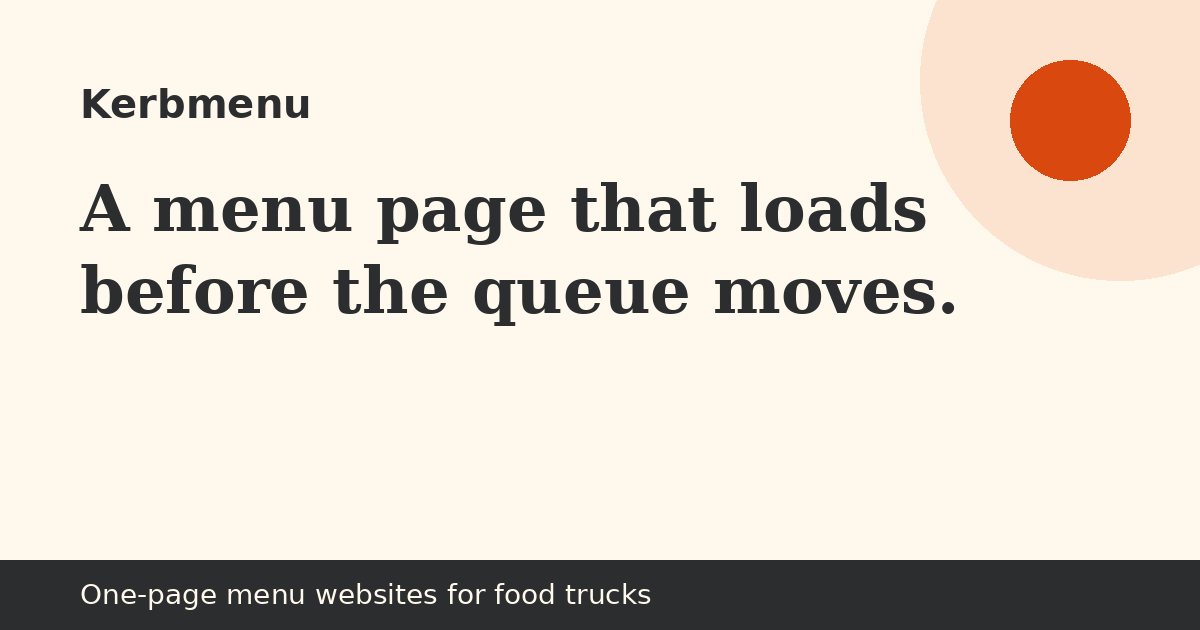
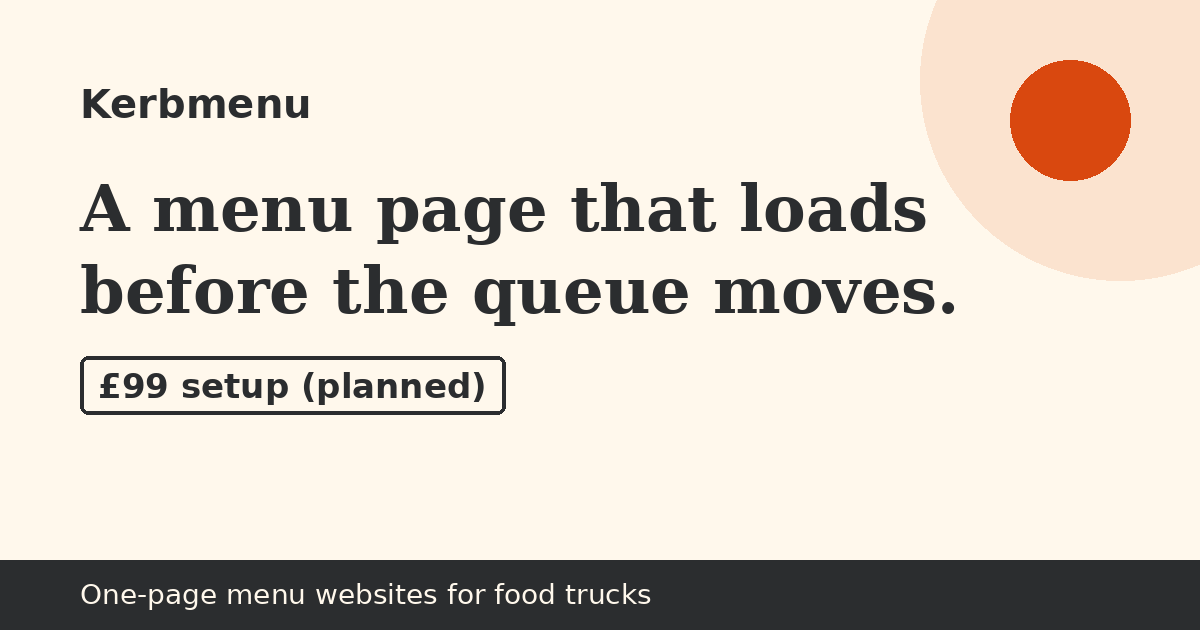
Publish site 2026-10-21 08:27 BST

Changed region(s): [[0.0617, 0.5429, 0.4317, 0.6635]]

diff --git a/index.html b/index.html
@@ -3,7 +3,7 @@
 <head>
 <meta charset="utf-8">
 <meta name="viewport" content="width=device-width, initial-scale=1">
-<meta http-equiv="Content-Security-Policy" content="default-src 'self'; img-src 'self' data: https://localreplyloop.goatcounter.com; style-src 'self'; script-src 'self'; font-src 'self'; connect-src 'self' https://formsubmit.co; form-action 'self'; base-uri 'self'; object-src 'none'">
+<meta http-equiv="Content-Security-Policy" content="default-src 'self'; img-src 'self' data: https://localreplyloop.goatcounter.com; style-src 'self'; script-src 'self'; font-src 'self'; connect-src 'self'; form-action 'self'; base-uri 'self'; object-src 'none'">
 <meta name="referrer" content="strict-origin-when-cross-origin">
 <title>Kerbmenu: A menu page that loads before the queue moves</title>
 <meta name="description" content="A fast one-page website for your truck: menu, allergens, where you are this week, and links to your socials, which you can update yourself.">
@@ -21,21 +21,14 @@
 </head>
 <body>
 <a class="skip" href="#main">Skip to content</a>
-<header><div class="wrap top"><a class="brand" href="./"><svg viewBox="0 0 64 64" aria-hidden="true" width="34" height="34"><circle cx="32" cy="32" r="32" fill="#2B2D2F"/><text x="32" y="43" text-anchor="middle" font-family="Georgia, serif" font-weight="700" font-size="30" fill="#FFF8EC">K</text><circle cx="50" cy="50" r="6" fill="#D9480F"/></svg>Kerbmenu</a><nav aria-label="Primary"><a href="#how">How it works</a><a href="#faq">Questions</a><a href="#contact">Contact</a></nav></div></header><section class="hero"><div class="wrap"><div><span class="draft">Draft: not yet available. Enquiries welcome.</span><br><span class="eyebrow">Service · draft offer · One-page menu websites for food trucks</span><h1>A menu page that loads before the queue moves.</h1><p class="lede">Kerbmenu builds street-food traders a single, fast page with the menu, allergen information, this week&#x27;s pitches and links to socials. You can update it from your phone.</p><div class="ctas"><a class="btn" href="#contact" data-cta="hero">Make an enquiry</a><a class="btn ghost" href="#faq" data-cta="hero-secondary">Questions</a></div></div><div class="art"><svg viewBox="0 0 400 400" role="img" aria-label="Decorative pattern" class="motif" preserveAspectRatio="xMidYMid slice"><circle cx="30" cy="30" r="9" fill="#D9480F" fill-opacity="0.85"/><circle cx="30" cy="79" r="9" fill="#2B2D2F" fill-opacity="0.25"/><circle cx="30" cy="128" r="9" fill="#2B2D2F" fill-opacity="0.25"/><circle cx="30" cy="177" r="9" fill="#2B2D2F" fill-opacity="0.25"/><circle cx="30" cy="226" r="9" fill="#2B2D2F" fill-opacity="0.25"/><circle cx="30" cy="275" r="9" fill="#D9480F" fill-opacity="0.85"/><circle cx="30" cy="324" r="9" fill="#2B2D2F" fill-opacity="0.25"/><circle cx="30" cy="373" r="9" fill="#2B2D2F" fill-opacity="0.25"/><circle cx="79" cy="30" r="9" fill="#2B2D2F" fill-opacity="0.25"/><circle cx="79" cy="79" r="13" fill="#2B2D2F" fill-opacity="0.25"/><circle cx="79" cy="128" r="17" fill="#2B2D2F" fill-opacity="0.25"/><circle cx="79" cy="177" r="5" fill="#2B2D2F" fill-opacity="0.25"/><circle cx="79" cy="226" r="9" fill="#D9480F" fill-opacity="0.85"/><circle cx="79" cy="275" r="13" fill="#2B2D2F" fill-opacity="0.25"/><circle cx="79" cy="324" r="17" fill="#2B2D2F" fill-opacity="0.25"/><circle cx="79" cy="373" r="5" fill="#2B2D2F" fill-opacity="0.25"/><circle cx="128" cy="30" r="9" fill="#2B2D2F" fill-opacity="0.25"/><circle cx="128" cy="79" r="17" fill="#2B2D2F" fill-opacity="0.25"/><circle cx="128" cy="128" r="9" fill="#2B2D2F" fill-opacity="0.25"/><circle cx="128" cy="177" r="17" fill="#D9480F" fill-opacity="0.85"/><circle cx="128" cy="226" r="9" fill="#2B2D2F" fill-opacity="0.25"/><circle cx="128" cy="275" r="17" fill="#2B2D2F" fill-opacity="0.25"/><circle cx="128" cy="324" r="9" fill="#2B2D2F" fill-opacity="0.25"/><circle cx="128" cy="373" r="17" fill="#2B2D2F" fill-opacity="0.25"/><circle cx="177" cy="30" r="9" fill="#2B2D2F" fill-opacity="0.25"/><circle cx="177" cy="79" r="5" fill="#2B2D2F" fill-opacity="0.25"/><circle cx="177" cy="128" r="17" fill="#D9480F" fill-opacity="0.85"/><circle cx="177" cy="177" r="13" fill="#2B2D2F" fill-opacity="0.25"/><circle cx="177" cy="226" r="9" fill="#2B2D2F" fill-opacity="0.25"/><circle cx="177" cy="275" r="5" fill="#2B2D2F" fill-opacity="0.25"/><circle cx="177" cy="324" r="17" fill="#2B2D2F" fill-opacity="0.25"/><circle cx="177" cy="373" r="13" fill="#D9480F" fill-opacity="0.85"/><circle cx="226" cy="30" r="9" fill="#2B2D2F" fill-opacity="0.25"/><circle cx="226" cy="79" r="9" fill="#D9480F" fill-opacity="0.85"/><circle cx="226" cy="128" r="9" fill="#2B2D2F" fill-opacity="0.25"/><circle cx="226" cy="177" r="9" fill="#2B2D2F" fill-opacity="0.25"/><circle cx="226" cy="226" r="9" fill="#2B2D2F" fill-opacity="0.25"/><circle cx="226" cy="275" r="9" fill="#2B2D2F" fill-opacity="0.25"/><circle cx="226" cy="324" r="9" fill="#D9480F" fill-opacity="0.85"/><circle cx="226" cy="373" r="9" fill="#2B2D2F" fill-opacity="0.25"/><circle cx="275" cy="30" r="9" fill="#D9480F" fill-opacity="0.85"/><circle cx="275" cy="79" r="13" fill="#2B2D2F" fill-opacity="0.25"/><circle cx="275" cy="128" r="17" fill="#2B2D2F" fill-opacity="0.25"/><circle cx="275" cy="177" r="5" fill="#2B2D2F" fill-opacity="0.25"/><circle cx="275" cy="226" r="9" fill="#2B2D2F" fill-opacity="0.25"/><circle cx="275" cy="275" r="13" fill="#D9480F" fill-opacity="0.85"/><circle cx="275" cy="324" r="17" fill="#2B2D2F" fill-opacity="0.25"/><circle cx="275" cy="373" r="5" fill="#2B2D2F" fill-opacity="0.25"/><circle cx="324" cy="30" r="9" fill="#2B2D2F" fill-opacity="0.25"/><circle cx="324" cy="79" r="17" fill="#2B2D2F" fill-opacity="0.25"/><circle cx="324" cy="128" r="9" fill="#2B2D2F" fill-opacity="0.25"/><circle cx="324" cy="177" r="17" fill="#2B2D2F" fill-opacity="0.25"/><circle cx="324" cy="226" r="9" fill="#D9480F" fill-opacity="0.85"/><circle cx="324" cy="275" r="17" fill="#2B2D2F" fill-opacity="0.25"/><circle cx="324" cy="324" r="9" fill="#2B2D2F" fill-opacity="0.25"/><circle cx="324" cy="373" r="17" fill="#2B2D2F" fill-opacity="0.25"/><circle cx="373" cy="30" r="9" fill="#2B2D2F" fill-opacity="0.25"/><circle cx="373" cy="79" r="5" fill="#2B2D2F" fill-opacity="0.25"/><circle cx="373" cy="128" r="17" fill="#2B2D2F" fill-opacity="0.25"/><circle cx="373" cy="177" r="13" fill="#D9480F" fill-opacity="0.85"/><circle cx="373" cy="226" r="9" fill="#2B2D2F" fill-opacity="0.25"/><circle cx="373" cy="275" r="5" fill="#2B2D2F" fill-opacity="0.25"/><circle cx="373" cy="324" r="17" fill="#2B2D2F" fill-opacity="0.25"/><circle cx="373" cy="373" r="13" fill="#2B2D2F" fill-opacity="0.25"/></svg></div></div></section>
+<header><div class="wrap top"><a class="brand" href="./"><svg viewBox="0 0 64 64" aria-hidden="true" width="34" height="34"><circle cx="32" cy="32" r="32" fill="#2B2D2F"/><text x="32" y="43" text-anchor="middle" font-family="Georgia, serif" font-weight="700" font-size="30" fill="#FFF8EC">K</text><circle cx="50" cy="50" r="6" fill="#D9480F"/></svg>Kerbmenu</a><nav aria-label="Primary"><a href="#how">How it works</a><a href="#faq">Questions</a><a href="#contact">Contact</a></nav></div></header>
 <main id="main">
+<section class="hero"><div class="wrap"><div><span class="draft">Draft: not yet available. Enquiries welcome.</span><br><span class="eyebrow">Service · draft offer · One-page menu websites for food trucks</span><h1>A menu page that loads before the queue moves.</h1><p class="lede">Kerbmenu builds street-food traders a single, fast page with the menu, allergen information, this week&#x27;s pitches and links to socials. You can update it from your phone.</p><div class="ctas"><a class="btn" href="#contact" data-cta="hero">Make an enquiry</a><a class="btn ghost" href="#faq" data-cta="hero-secondary">Questions</a></div></div><figure class="art"><svg viewBox="0 0 400 400" aria-hidden="true" focusable="false" class="motif"><rect x="30" y="140" width="260" height="160" rx="18" fill="#2B2D2F"/><rect x="290" y="190" width="80" height="110" rx="14" fill="#2B2D2F"/><rect x="60" y="170" width="150" height="60" rx="6" fill="#FBE3CF"/><rect x="300" y="205" width="50" height="40" rx="6" fill="#FBE3CF"/><circle cx="100" cy="310" r="30" fill="#D9480F"/><circle cx="300" cy="310" r="30" fill="#D9480F"/><circle cx="100" cy="310" r="12" fill="#FFF8EC"/><circle cx="300" cy="310" r="12" fill="#FFF8EC"/><rect x="220" y="40" width="110" height="140" rx="14" fill="#2B2D2F"/><rect x="228" y="48" width="94" height="124" rx="8" fill="#FFF8EC"/><rect x="236" y="64" width="78" height="8" rx="4" fill="#D9480F"/><rect x="236" y="90" width="48" height="8" rx="4" fill="#D9480F"/><rect x="236" y="116" width="18" height="8" rx="4" fill="#D9480F"/><rect x="236" y="142" width="78" height="8" rx="4" fill="#D9480F"/></svg><figcaption class="fine">Illustrative</figcaption></figure></div></section>
 <section class="tint" id="how"><div class="wrap"><span class="eyebrow">How it works</span><h2>A fast one-page website for your truck: menu, allergens, where you are this week, and links to your socials, which you can update yourself.</h2><div class="steps"><div class="step"><h3>Send your menu</h3><p>And photos, pitches and socials.</p></div><div class="step"><h3>We build the page</h3><p>Fast on mobile data, readable in sunlight.</p></div><div class="step"><h3>You update it</h3><p>Change the week&#x27;s pitches from your phone.</p></div></div></div></section>
-<section><div class="wrap"><span class="eyebrow">Who it is for</span><h2>For food truck and street-food traders.</h2><div class="points"><div class="point"><h3>Built for phones</h3><p>Loads quickly at a crowded event.</p></div><div class="point"><h3>Allergens included</h3><p>A clear allergen table per dish.</p></div><div class="point"><h3>You own the content</h3><p>Take it with you if you leave.</p></div></div></div></section>
+<section><div class="wrap"><span class="eyebrow">Who it is for</span><h2>For food truck and street-food traders.</h2><div class="points"><div class="point"><h3>Built for phones</h3><p>Loads quickly at a crowded event.</p></div><div class="point"><h3>Allergens included</h3><p>A clear allergen table per dish, filled in and kept up to date by you.</p></div><div class="point"><h3>You own the content</h3><p>Take it with you if you leave.</p></div></div></div></section>
 <section class="tint" id="price"><div class="wrap"><span class="eyebrow">Planned price</span><div class="pricebox"><p class="price">£99 setup (planned)</p><p>This is a draft offer and is not taking orders yet. Nothing can be bought on this website.</p></div></div></section>
-<section id="faq"><div class="wrap"><span class="eyebrow">Questions</span><h2>Common questions</h2><details><summary>Is this available now?</summary><p>It&#x27;s a draft offer. Enquire and we&#x27;ll reply about timing.</p></details><details><summary>Do I need a domain?</summary><p>Not to start. You can add one later.</p></details><details><summary>Can customers order online?</summary><p>Not with this. Menu and info only.</p></details><p class="fine" style="margin-top:18px">Kerbmenu builds information pages. It does not process orders or payments.</p></div></section>
-<section class="tint" id="contact"><div class="wrap contact-grid"><div><span class="eyebrow">Contact</span><h2>Make an enquiry</h2><p>Kerbmenu is new and run by one person. Every message is read and answered by email, usually within two working days.</p><p>Email: <a href="mailto:localreply+kerbmenu@agentmail.to">localreply+kerbmenu@agentmail.to</a></p></div><form class="form" data-contact data-formsubmit="localreply+kerbmenu@agentmail.to" data-email="localreply+kerbmenu@agentmail.to" data-subject="Kerbmenu enquiry" novalidate>
-<div><label for="f-name">Your name</label><input id="f-name" name="name" autocomplete="name" required></div>
-<div><label for="f-email">Email</label><input id="f-email" name="email" type="email" autocomplete="email" required></div>
-<div><label for="f-plan">About</label><select id="f-plan" name="plan"><option value="New page">New page</option><option value="Replace an old site">Replace an old site</option><option value="A question">A question</option></select></div>
-<div><label for="f-message">Message</label><textarea id="f-message" name="message"></textarea></div>
-<p class="hint">Your message goes to our inbox through FormSubmit (formsubmit.co), our form-delivery provider. If that fails, your own email app opens instead. See our <a href="privacy.html">privacy notice</a>.</p>
-<button class="btn" type="submit">Make an enquiry</button>
-<p class="form-status" role="status" aria-live="polite"></p>
-</form></div></section>
+<section id="faq"><div class="wrap"><span class="eyebrow">Questions</span><h2>Common questions</h2><details><summary>Is this available now?</summary><p>It&#x27;s a draft offer. Enquiries are received, but we can’t promise a reply or a timeframe yet.</p></details><details><summary>Do I need a domain?</summary><p>Not to start. You can add one later.</p></details><details><summary>Can customers order online?</summary><p>Not with this. Menu and info only.</p></details><details><summary>Who is responsible for the allergen information?</summary><p>You are, as the food business. We display what you give us.</p></details><p class="fine" style="margin-top:18px">Kerbmenu builds information pages. It does not process orders or payments.</p></div></section>
+<section class="tint" id="contact"><div class="wrap contact-grid"><div><span class="eyebrow">Contact</span><h2>Make an enquiry</h2><p>Kerbmenu is new and run by one person. Messages go to our inbox. We can’t promise a reply or a timeframe yet.</p><p>Email: <a href="mailto:localreply+kerbmenu@agentmail.to">localreply+kerbmenu@agentmail.to</a></p></div><div class="form contact-mail"><p><a class="btn" href="mailto:localreply+kerbmenu@agentmail.to?subject=%5BKerbmenu%5D%20Enquiry" data-cta="enquire">Email Kerbmenu</a></p><p class="hint">This opens your own email app. Nothing is sent through this website. See our <a href="privacy.html">privacy notice</a>.</p></div></div></section>
 </main><footer><div class="wrap"><p>Operated by a UK sole trader trading as Kerbmenu. Contact: localreply+kerbmenu@agentmail.to. Postal address available on written request.</p>
 <p><a href="privacy.html">Privacy</a><a href="terms.html">Terms</a><a href="./#contact">Contact</a></p>
 <p class="fine">Kerbmenu builds information pages. It does not process orders or payments.</p></div></footer>

diff --git a/assets/site.css b/assets/site.css
@@ -1,4 +1,4 @@
-:root{--ink:#2B2D2F;--paper:#FFF8EC;--acc:#D9480F;--acc-text:#B83D0D;--on-acc:#111111;--soft:#FBE3CF;--on-ink:#FFF8EC;--r:16px;--br:999px;--head:Georgia, 'Times New Roman', serif;--body:system-ui, -apple-system, 'Segoe UI', Roboto, sans-serif}
+:root{--ink:#2B2D2F;--paper:#FFF8EC;--acc:#D9480F;--acc-text:#A8370B;--on-acc:#111111;--acc-btn:#E44C10;--soft:#FBE3CF;--on-ink:#FFF8EC;--r:16px;--br:999px;--head:Georgia, 'Times New Roman', serif;--body:system-ui, -apple-system, 'Segoe UI', Roboto, sans-serif}
 *,*::before,*::after{box-sizing:border-box}html{scroll-behavior:smooth}@media (prefers-reduced-motion:reduce){html{scroll-behavior:auto}*{transition:none!important}}
 body{margin:0;font-family:var(--body);color:var(--ink);background:var(--paper);line-height:1.6;font-size:17px;-webkit-font-smoothing:antialiased}
 h1,h2,h3{font-family:var(--head);line-height:1.15;margin:0 0 .5em;letter-spacing:-.01em}h1{font-size:clamp(2.1rem,5vw,3.6rem)}h2{font-size:clamp(1.5rem,3vw,2.2rem)}h3{font-size:1.15rem}
@@ -7,11 +7,11 @@ p{margin:0 0 1em}a{color:var(--ink);text-decoration-color:var(--acc);text-underl
 :focus-visible{outline:3px solid var(--acc);outline-offset:2px}
 .top{display:flex;align-items:center;justify-content:space-between;padding:18px 0;gap:16px}.brand{display:flex;align-items:center;gap:10px;font-family:var(--head);font-weight:700;font-size:1.25rem;text-decoration:none}
 .top nav a{margin-left:18px;font-size:.95rem;text-decoration:none}.top nav a:hover{text-decoration:underline}
-.btn{display:inline-block;background:var(--acc);color:var(--on-acc);padding:13px 22px;border-radius:var(--br);font-weight:600;text-decoration:none;border:2px solid var(--acc);cursor:pointer;font:inherit;font-weight:600}
-.btn:hover{filter:brightness(.94)}.btn.ghost{background:transparent;color:var(--ink);border-color:var(--ink)}
+.btn{display:inline-block;background:var(--acc-btn);color:var(--on-acc);padding:13px 22px;border-radius:var(--br);font-weight:600;text-decoration:none;border:2px solid var(--acc-btn);cursor:pointer;font:inherit;font-weight:600}
+.btn:hover{filter:none;box-shadow:inset 0 0 0 2px currentColor}.btn.ghost{background:transparent;color:var(--ink);border-color:var(--ink)}
 .eyebrow{display:inline-block;font-size:.8rem;letter-spacing:.12em;text-transform:uppercase;font-weight:600;color:var(--acc-text);margin-bottom:12px}
 .hero{padding:48px 0 64px}.hero .lede{font-size:1.15rem;max-width:40em}.ctas{display:flex;gap:12px;flex-wrap:wrap;margin-top:22px}
-.motif{width:100%;height:auto;max-width:420px;display:block}
+.motif{width:100%;height:auto;max-width:420px;display:block}.art{margin:0}
 .draft{display:inline-block;background:var(--soft);border:1px dashed var(--ink);padding:3px 10px;border-radius:999px;font-size:.82rem;font-weight:600;margin-bottom:14px}
 section{padding:56px 0}.tint{background:var(--soft)}
 .steps{display:grid;grid-template-columns:repeat(auto-fit,minmax(220px,1fr));gap:22px;counter-reset:s}
@@ -22,11 +22,11 @@ section{padding:56px 0}.tint{background:var(--soft)}
 details{border-bottom:1px solid color-mix(in srgb,var(--ink) 18%,transparent);padding:14px 0}summary{cursor:pointer;font-weight:600}details p{margin-top:10px}
 .form{display:grid;gap:14px;max-width:620px}.form label{font-weight:600;font-size:.95rem;display:block;margin-bottom:4px}
 .form input,.form textarea,.form select{width:100%;padding:12px;border:1.5px solid color-mix(in srgb,var(--ink) 40%,transparent);border-radius:calc(var(--r)/2);font:inherit;background:#fff;color:#111}
-.form textarea{min-height:120px}.hint,.fine{font-size:.88rem;opacity:.85}.form-status{font-weight:600}
-.contact-grid{display:grid;grid-template-columns:1fr 1.2fr;gap:40px}@media(max-width:800px){.contact-grid{grid-template-columns:1fr}.top nav{display:none}}
+.form textarea{min-height:120px}.hint,.fine{font-size:.88rem}.form-status{font-weight:600}
+.contact-grid{display:grid;grid-template-columns:1fr 1.2fr;gap:40px}@media(max-width:800px){.contact-grid{grid-template-columns:1fr}.top nav a:not([href="#contact"]){display:none}.top nav a{margin-left:0;padding:10px 0;font-weight:600}}
 footer{padding:36px 0 48px;font-size:.9rem;border-top:1px solid color-mix(in srgb,var(--ink) 15%,transparent)}footer a{margin-right:14px}
 .tool{background:var(--paper);border:2px solid var(--ink);border-radius:var(--r);padding:26px;max-width:640px}.tool .row{display:grid;grid-template-columns:1fr 140px;gap:12px;align-items:center;margin-bottom:10px}
 .tool input[type=number]{padding:10px;border:1.5px solid var(--ink);border-radius:8px;font:inherit;width:100%}.result{margin-top:16px;padding:16px;background:var(--soft);border-radius:calc(var(--r)/2);min-height:3em}
 .check h3{margin-top:18px}.check label{display:flex;gap:10px;align-items:flex-start;padding:6px 0}.check input{width:20px;height:20px;accent-color:var(--acc)}
 .legal{max-width:760px}.legal h2{font-size:1.3rem;margin-top:1.6em}
-.hero .wrap{display:grid;grid-template-columns:1.25fr .85fr;gap:48px;align-items:center}@media(max-width:800px){.hero .wrap{grid-template-columns:1fr}.hero .art{max-width:280px}}
+.hero .wrap{display:grid;grid-template-columns:1.25fr .85fr;gap:48px;align-items:center}@media(max-width:800px){.hero .wrap{grid-template-columns:1fr}.hero .art{max-width:180px;margin-top:-8px}}

diff --git a/privacy.html b/privacy.html
@@ -3,7 +3,7 @@
 <head>
 <meta charset="utf-8">
 <meta name="viewport" content="width=device-width, initial-scale=1">
-<meta http-equiv="Content-Security-Policy" content="default-src 'self'; img-src 'self' data: https://localreplyloop.goatcounter.com; style-src 'self'; script-src 'self'; font-src 'self'; connect-src 'self' https://formsubmit.co; form-action 'self'; base-uri 'self'; object-src 'none'">
+<meta http-equiv="Content-Security-Policy" content="default-src 'self'; img-src 'self' data: https://localreplyloop.goatcounter.com; style-src 'self'; script-src 'self'; font-src 'self'; connect-src 'self'; form-action 'self'; base-uri 'self'; object-src 'none'">
 <meta name="referrer" content="strict-origin-when-cross-origin">
 <title>Privacy notice | Kerbmenu</title>
 <meta name="description" content="Privacy notice for Kerbmenu.">
@@ -21,13 +21,13 @@
 </head>
 <body>
 <a class="skip" href="#main">Skip to content</a>
-<header><div class="wrap top"><a class="brand" href="./"><svg viewBox="0 0 64 64" aria-hidden="true" width="34" height="34"><circle cx="32" cy="32" r="32" fill="#2B2D2F"/><text x="32" y="43" text-anchor="middle" font-family="Georgia, serif" font-weight="700" font-size="30" fill="#FFF8EC">K</text><circle cx="50" cy="50" r="6" fill="#D9480F"/></svg>Kerbmenu</a><nav aria-label="Primary"><a href="#how">How it works</a><a href="#faq">Questions</a><a href="#contact">Contact</a></nav></div></header><main id="main"><section><div class="wrap legal"><h1>Privacy notice</h1><p class="fine">Last updated 19 October 2026</p>
+<header><div class="wrap top"><a class="brand" href="./"><svg viewBox="0 0 64 64" aria-hidden="true" width="34" height="34"><circle cx="32" cy="32" r="32" fill="#2B2D2F"/><text x="32" y="43" text-anchor="middle" font-family="Georgia, serif" font-weight="700" font-size="30" fill="#FFF8EC">K</text><circle cx="50" cy="50" r="6" fill="#D9480F"/></svg>Kerbmenu</a><nav aria-label="Primary"><a href="#how">How it works</a><a href="#faq">Questions</a><a href="#contact">Contact</a></nav></div></header><main id="main"><section><div class="wrap legal"><h1>Privacy notice</h1><p class="fine">Last updated 20 October 2026</p>
 <p><span>Operated by a UK sole trader trading as Kerbmenu. Contact: localreply+kerbmenu@agentmail.to. Postal address available on written request.</span> We are the controller for the personal data described here. For anything in this notice, email <a href="mailto:localreply+kerbmenu@agentmail.to">localreply+kerbmenu@agentmail.to</a> with “Kerbmenu” in the subject line.</p>
-<h2>What we collect</h2><p>If you use the form or email us, we receive your name, email address, anything you write in your message and, if you give it, your postcode or town. We use it only to reply to you and, if you ask for it, to deal with your enquiry.</p>
+<h2>What we collect</h2><p>If you email us, we receive your name, email address, anything you write in your message and, if you give it, your postcode or town. We use it only to reply to you and, if you ask for it, to deal with your enquiry.</p>
 <h2>Lawful basis</h2><p>Replying to an enquiry you send us is in our legitimate interests, or steps taken at your request before any agreement (UK GDPR Article 6(1)(f) and 6(1)(b)).</p>
-<h2>Who processes it for us</h2><p>FormSubmit (formsubmit.co) delivers form messages to our inbox. AgentMail (agentmail.to) hosts the inbox. GitHub Pages hosts this website and may log technical data such as IP addresses for security. Some of these providers process data outside the UK under their own safeguards.</p>
+<h2>Who processes it for us</h2><p>AgentMail (agentmail.to) hosts our inbox. GitHub Pages hosts this website and may log technical data such as IP addresses for security. Some of these providers process data outside the UK under their own safeguards.</p>
 <h2>Cookies and analytics</h2><p>We set no cookies. We count page views with GoatCounter, which records the page, referrer and screen size but no cookies and no personal profile. It does not run if your browser sends Do Not Track or Global Privacy Control.</p>
-<h2>How long we keep it</h2><p>We keep enquiry emails for up to 12 months after our last contact, unless you become a customer, in which case we keep records as the law requires.</p>
+<h2>How long we keep it</h2><p>We delete enquiry and order data 30 days after our last contact or after delivery. We keep only the basic order record that tax law requires.</p>
 <h2>Your rights</h2><p>You can ask for a copy of your data, ask us to correct or delete it, or object to how we use it, by emailing <a href="mailto:localreply+kerbmenu@agentmail.to">localreply+kerbmenu@agentmail.to</a>. You can complain to the Information Commissioner's Office (ico.org.uk).</p></div></section></main><footer><div class="wrap"><p>Operated by a UK sole trader trading as Kerbmenu. Contact: localreply+kerbmenu@agentmail.to. Postal address available on written request.</p>
 <p><a href="privacy.html">Privacy</a><a href="terms.html">Terms</a><a href="./#contact">Contact</a></p>
 <p class="fine">Kerbmenu builds information pages. It does not process orders or payments.</p></div></footer>

diff --git a/_shared/kit.js b/_shared/kit.js
@@ -69,24 +69,8 @@
     form.addEventListener("submit", function (e) {
       e.preventDefault();
       if (!form.reportValidity()) return;
-      // 2026-10-14: if data-formsubmit is set, deliver via FormSubmit.co straight to the brand inbox; mailto stays as fallback.
-      var fsTok = form.getAttribute("data-formsubmit");
-      if (fsTok && !form.__fsFallback && window.fetch) {
-        var fd = new FormData(form), payload = {}, st = form.querySelector("[role=status]");
-        fd.forEach(function (v, k) { if (k !== "consent") payload[k] = String(v); });
-        payload._subject = (form.getAttribute("data-subject") || "Enquiry") + (payload.business ? " — " + payload.business : "");
-        if (payload.email) payload._replyto = payload.email;
-        payload._captcha = "false"; payload._template = "table";
-        fetch("https://formsubmit.co/ajax/" + fsTok, { method: "POST", headers: { "Content-Type": "application/json", "Accept": "application/json" }, body: JSON.stringify(payload) })
-          .then(function (r) { return r.json(); })
-          .then(function (j) {
-            if (String(j.success) !== "true") throw new Error("fs");
-            if (st) { st.textContent = "Thanks" + (payload.name ? ", " + payload.name.trim().split(" ")[0] : "") + " — your message has been sent. We reply by email."; st.classList.add("is-visible"); }
-            track("contact_sent", { plan: payload.plan || null }); form.reset();
-          })
-          .catch(function () { form.__fsFallback = true; if (st) { st.textContent = "Sending didn't work — opening your email app instead."; st.classList.add("is-visible"); } form.requestSubmit ? form.requestSubmit() : form.dispatchEvent(new Event("submit", { cancelable: true })); });
-        return;
-      }
+      // The form only composes an email
+      // in the visitor's own mail app; nothing is sent through any third-party form processor.
       var to = form.getAttribute("data-email") || cfg.contactEmail;
       var data = new FormData(form);
       var name = (data.get("name") || "").toString().trim();

diff --git a/_shared/kit.css b/_shared/kit.css
@@ -73,6 +73,7 @@ p { margin: 0; }
 .mobile-nav.is-open { display: block; }
 .mobile-nav a { display: flex; align-items: center; min-height: 52px; padding: 0 1.25rem; color: var(--text); text-decoration: none; font-weight: 500; border-bottom: 1px solid var(--line); }
 .mobile-nav .btn { margin: 1rem 1.25rem 1.25rem; display: flex; }
+.mobile-nav .btn--primary, .mobile-nav .btn--primary:hover { color: #fff; }
 @media (min-width: 60rem) {
   .nav { display: flex; }
   .site-header .header-cta { display: inline-flex; margin-left: .75rem; }
@@ -329,3 +330,8 @@ html[data-paused="true"] [data-cta="checkout"] { pointer-events: none; opacity: 
 @media (min-width: 60rem) { .pricing.pricing--single { grid-template-columns: 1fr; } }
 .tier-more { max-width: 64rem; margin: 1.25rem auto 0; text-align: center; color: var(--muted); font-size: .9375rem; line-height: 1.6; }
 .tier-more a { font-weight: 600; white-space: nowrap; }
+
+.site-header .header-link { display: inline-flex; color: var(--ink); font-weight: 600; text-decoration: underline; text-underline-offset: .2em; min-height: 44px; align-items: center; padding: 0 .25rem; }
+@media (max-width: 59.99rem) { .site-header .header-link { display: none; } }
+.btn-row .text-link { display: inline-flex; align-items: center; min-height: 48px; padding: 0 .25rem; color: var(--ink); font-weight: 600; text-decoration: underline; text-underline-offset: .2em; }
+.btn-row .text-link:hover, .site-header .header-link:hover { color: var(--accent-strong); }

diff --git a/404.html b/404.html
@@ -3,7 +3,7 @@
 <head>
 <meta charset="utf-8">
 <meta name="viewport" content="width=device-width, initial-scale=1">
-<meta http-equiv="Content-Security-Policy" content="default-src 'self'; img-src 'self' data: https://localreplyloop.goatcounter.com; style-src 'self'; script-src 'self'; font-src 'self'; connect-src 'self' https://formsubmit.co; form-action 'self'; base-uri 'self'; object-src 'none'">
+<meta http-equiv="Content-Security-Policy" content="default-src 'self'; img-src 'self' data: https://localreplyloop.goatcounter.com; style-src 'self'; script-src 'self'; font-src 'self'; connect-src 'self'; form-action 'self'; base-uri 'self'; object-src 'none'">
 <meta name="referrer" content="strict-origin-when-cross-origin">
 <title>Page not found | Kerbmenu</title>
 <meta name="description" content="Page not found for Kerbmenu.">

diff --git a/terms.html b/terms.html
@@ -3,7 +3,7 @@
 <head>
 <meta charset="utf-8">
 <meta name="viewport" content="width=device-width, initial-scale=1">
-<meta http-equiv="Content-Security-Policy" content="default-src 'self'; img-src 'self' data: https://localreplyloop.goatcounter.com; style-src 'self'; script-src 'self'; font-src 'self'; connect-src 'self' https://formsubmit.co; form-action 'self'; base-uri 'self'; object-src 'none'">
+<meta http-equiv="Content-Security-Policy" content="default-src 'self'; img-src 'self' data: https://localreplyloop.goatcounter.com; style-src 'self'; script-src 'self'; font-src 'self'; connect-src 'self'; form-action 'self'; base-uri 'self'; object-src 'none'">
 <meta name="referrer" content="strict-origin-when-cross-origin">
 <title>Terms of use | Kerbmenu</title>
 <meta name="description" content="Terms of use for Kerbmenu.">
